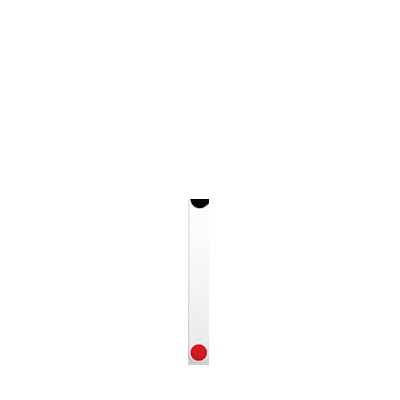
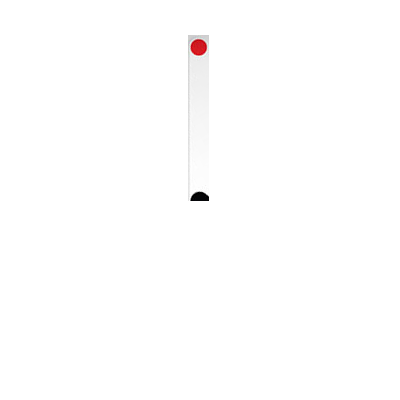
irudiak rotatu

Changed region(s): [[0.45, 0.69, 0.54, 0.93], [0.45, 0.09, 0.54, 0.3], [0.45, 0.48, 0.54, 0.54]]

diff --git a/js/clock-canvas.js b/js/clock-canvas.js
@@ -3,11 +3,11 @@
 	'use strict';
 
 	var clock = function(element)
-	{		
+	{
 		var fps = 1000 / 60;
 		var ctx = element.getContext('2d');
 		var imgs;
-		
+
 		var cache =
 		{
 			left: element.width / 2,
@@ -16,7 +16,7 @@
 			{
 				s: false,
 				m: true,
-				h: true				
+				h: true
 			},
 			imgs:
 			[]
@@ -59,7 +59,7 @@
 				else
 					tmp = t['s'];
 
-				ang = (tmp * Math.PI / 30);
+				ang = (tmp * Math.PI / 30) + Math.PI;
 			}
 			else if (type === 'm')
 			{
@@ -68,7 +68,7 @@
 				else
 					tmp = 1;
 
-				ang = (t['m'] * Math.PI / 30) + (tmp * Math.PI / (30 * 60));
+				ang = (t['m'] * Math.PI / 30) + (tmp * Math.PI / (30 * 60)) + Math.PI;
 			}
 			else if (type === 'h')
 			{
@@ -76,6 +76,8 @@
 					ang = (t['h'] * Math.PI / 6) + (t['m'] * Math.PI / (6 * 60)) + (t['s'] * Math.PI / (360 * 60));
 				else
 					ang = t['h'] * Math.PI / 6;
+
+				ang = ang + Math.PI;
 			}
 
 			return ang;
@@ -118,22 +120,22 @@
 
 		var drawHour = function(h_ang)
 		{
-			ctx.rotate(Math.PI);			
+			ctx.rotate(Math.PI);
 			ctx.rotate(h_ang);
 			//ctx.translate(-width / 2, -height / 2);
 			ctx.translate(-cache['imgs'][0]['width'], -cache['imgs'][0]['height']);
 
 			ctx.drawImage(imgs[0], 0, 0);
-			
+
 			//ctx.translate(width / 2, height / 2);
 			ctx.translate(cache['imgs'][0]['width'], cache['imgs'][0]['height']);
-			
+
 			ctx.rotate(-h_ang);
 			ctx.rotate(-Math.PI);
 		};
 
 		var drawMinute = function(m_ang)
-		{	
+		{
 			ctx.rotate(Math.PI);
 			ctx.rotate(m_ang);
 			//ctx.translate(-width / 2, -height / 2);
@@ -143,13 +145,13 @@
 
 			//ctx.translate(width / 2, height / 2);
 			ctx.translate(cache['imgs'][1]['width'], cache['imgs'][1]['height']);
-			
+
 			ctx.rotate(-m_ang);
 			ctx.rotate(-Math.PI);
 		};
 
 		var drawSecond = function(s_ang)
-		{	
+		{
 			ctx.rotate(-Math.PI);
 			ctx.rotate(s_ang);
 			//ctx.translate(-width / 2, -height / 2);
@@ -159,7 +161,7 @@
 
 			//ctx.translate(width / 2, height / 2);
 			ctx.translate(cache['imgs'][2]['width'], cache['imgs'][2]['height']);
-			
+
 			ctx.rotate(-s_ang);
 			ctx.rotate(Math.PI);
 		};
@@ -227,7 +229,7 @@
 		};
 
 		var init = function(element)
-		{		
+		{
 			var params = _getParams(element);
 			setAnimations(params);
 
